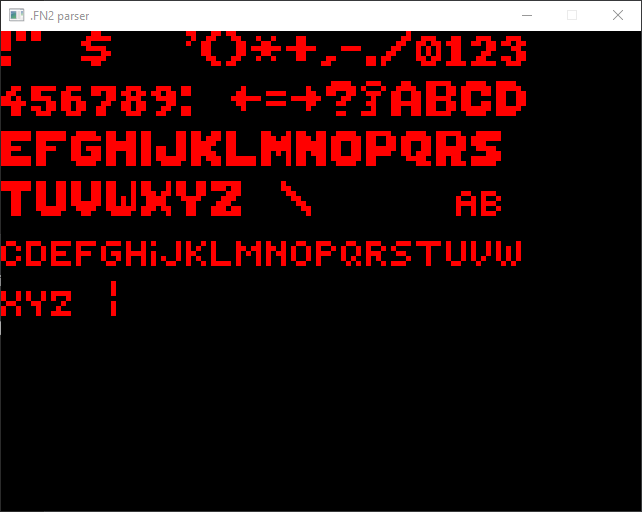
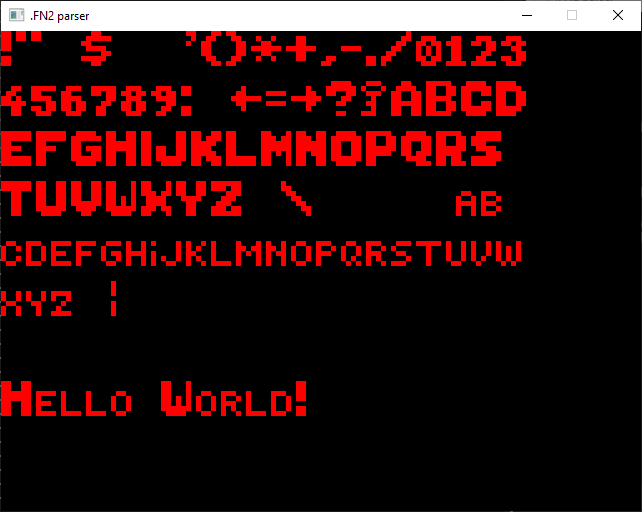
Add text rendering fn

diff --git a/src/main.rs b/src/main.rs
@@ -2,6 +2,8 @@ use sdl2::event::Event;
 use sdl2::keyboard::Keycode;
 use sdl2::pixels::Color;
 use sdl2::rect::Point;
+use sdl2::render::Canvas;
+use sdl2::video::Window;
 use std::fs;
 use std::fs::File;
 use std::io::Read;
@@ -20,6 +22,8 @@ struct Character {
     height: u32,
     lines: Vec<Line>,
 }
+
+type Characters = Vec<Character>;
 
 pub fn main() {
     let sdl_context = sdl2::init().unwrap();
@@ -42,7 +46,7 @@ pub fn main() {
     assert_eq!(size % 8, 0);
 
     println!("File size: {} bytes", size);
-    let mut characters: Vec<Character> = Vec::new();
+    let mut characters: Characters = Vec::new();
     let mut offset: usize = 0x027D;
     let number_of_chars_to_parse = 92;
     'parsing: loop {
@@ -101,19 +105,8 @@ pub fn main() {
         let mut y_offset = 0;
 
         for c in 0..characters.len() {
-            let character = &characters[c];
-            for line in &character.lines {
-                canvas
-                    .draw_line(
-                        Point::new(line.x as i32 + x_offset, line.y as i32 + y_offset),
-                        Point::new(
-                            line.x as i32 + x_offset + line.width as i32 - 1,
-                            line.y as i32 + y_offset,
-                        ),
-                    )
-                    .unwrap();
-            }
-            x_offset += character.width as i32;
+            let character_width = render_character(&mut canvas, &characters, c, x_offset, y_offset);
+            x_offset += character_width;
 
             if x_offset > 100 {
                 y_offset += 10;
@@ -121,9 +114,52 @@ pub fn main() {
             }
         }
 
+        render_text(&mut canvas, &characters, 0, 70, "Hello World!");
+
         canvas.present();
         std::thread::sleep(Duration::new(0, 1_000_000_000u32 / 60));
     }
+}
+
+fn render_text(canvas: &mut Canvas<Window>, characters: &Characters, x: u32, y: u32, text: &str) {
+    let index_offset = 0x21;
+    let mut offset = 0;
+    for c in text.chars() {
+        let character_index: u8 = (c as u8).into();
+        if character_index < index_offset {
+            offset += 5;
+        } else {
+            offset += render_character(
+                canvas,
+                &characters,
+                (character_index - index_offset) as usize,
+                x + offset,
+                y,
+            );
+        }
+    }
+}
+
+fn render_character(
+    canvas: &mut Canvas<Window>,
+    characters: &Characters,
+    index: usize,
+    x: u32,
+    y: u32,
+) -> u32 {
+    let character = &characters[index];
+    for line in &character.lines {
+        canvas
+            .draw_line(
+                Point::new(line.x as i32 + x as i32, line.y as i32 + y as i32),
+                Point::new(
+                    line.x as i32 + x as i32 + line.width as i32 - 1,
+                    line.y as i32 + y as i32,
+                ),
+            )
+            .unwrap();
+    }
+    character.width
 }
 
 fn get_color(data: u8) -> (u8, u8, u8) {
